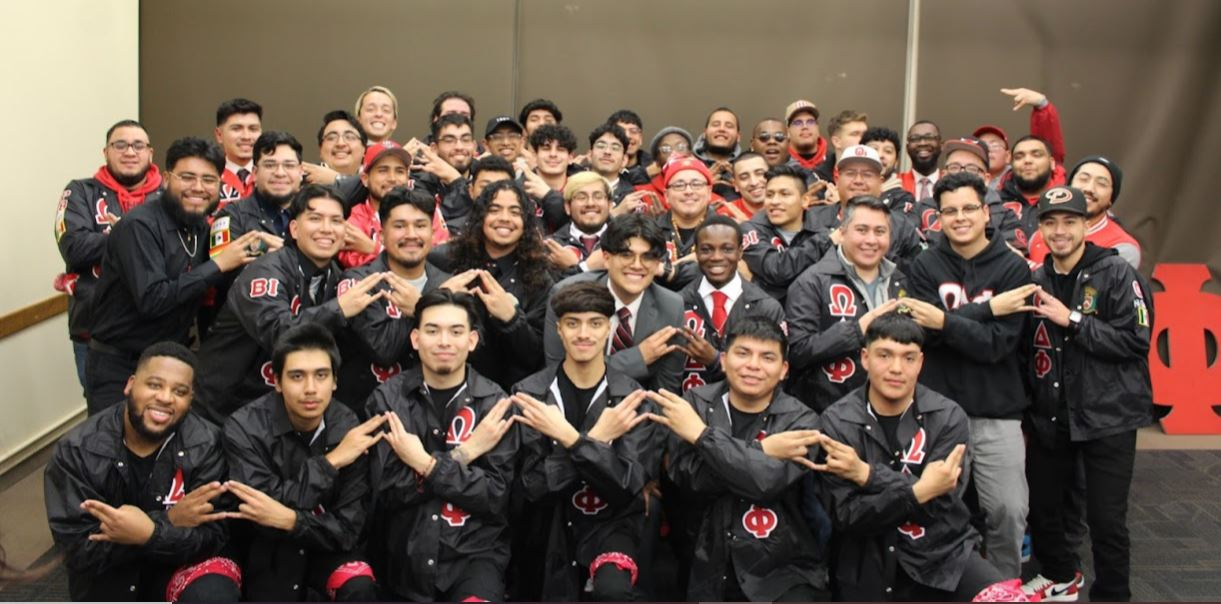
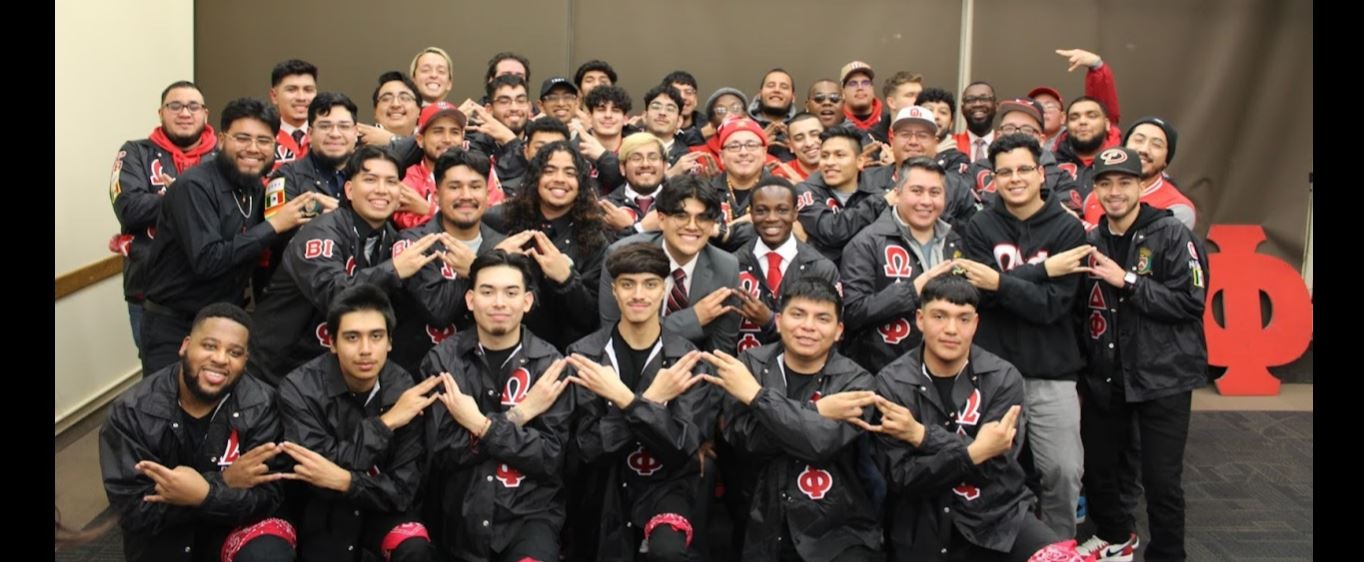
fixed swipter bug which background

diff --git a/odphi/src/app/CenterCarousel.tsx b/odphi/src/app/CenterCarousel.tsx
@@ -4,7 +4,7 @@ import Image from 'next/image';
 import { Plus_Jakarta_Sans, Manrope } from "next/font/google";
 const jakarta = Plus_Jakarta_Sans({ subsets: ["latin"] });
 const inter = Manrope({ subsets: ["latin"] });
-import "./CenterCarousel.css"
+import "./Carousel.css"
 
 export default function CenterCarousel() {
     const images = useMemo (() => [
@@ -39,3 +39,53 @@ export default function CenterCarousel() {
         </div>
     );
 }
+
+// 'use client';
+// import React from 'react';
+// import { Swiper, SwiperSlide } from 'swiper/react';
+// import 'swiper/css';
+// import 'swiper/css/navigation';
+
+// import { Autoplay, Parallax, Navigation } from 'swiper/modules';
+// import { Manrope, Plus_Jakarta_Sans } from 'next/font/google';
+// const jakarta = Plus_Jakarta_Sans({ subsets: ["latin"] });
+// const inter = Manrope({ subsets: ["latin"] });
+// import "./gallery/Gallery.css";
+
+// interface CarouselProps {
+//     slides: string[];
+// }
+
+// const Carousel: React.FC<CarouselProps> = ({ slides }) => {
+//     return (
+//         <Swiper
+//             speed={1000}
+//             autoplay={{
+//                 delay: 2500,
+//                 disableOnInteraction: false,
+//             }}
+//             loop={true}
+//             parallax={true}
+//             navigation={true}
+//             modules={[Autoplay, Parallax, Navigation]}
+//             className="swiper-container"
+//         >
+//             {slides.map((backgroundImage, index) => (
+//                 <SwiperSlide
+//                     key={index}
+//                     className="parallax-bg"
+//                     style={{ backgroundImage }}
+//                     data-swiper-parallax="-23%"
+                    
+//                 >
+//                     <img className="slide-img" src={backgroundImage} alt={`Image ${index + 1}`} />
+//                     <div className="slide-number">
+//                         {String(index + 1)} / {slides.length}
+//                     </div>
+//                 </SwiperSlide>
+//             ))}
+//         </Swiper>
+//     );
+// };
+
+// export default Carousel;

diff --git a/odphi/src/app/Carousel.tsx b/odphi/src/app/Carousel.tsx
@@ -3,6 +3,7 @@ import React from 'react';
 import { Swiper, SwiperSlide } from 'swiper/react';
 import 'swiper/css';
 import 'swiper/css/navigation';
+import './Carousel.css';
 
 import { Autoplay, Parallax, Navigation } from 'swiper/modules';
 import { Manrope, Plus_Jakarta_Sans } from 'next/font/google';
@@ -25,18 +26,18 @@ const Carousel: React.FC<CarouselProps> = ({ slides }) => {
             parallax={true}
             navigation={true}
             modules={[Autoplay, Parallax, Navigation]}
-            className="swiper-container"
+            className="carousel-container"
         >
             {slides.map((backgroundImage, index) => (
                 <SwiperSlide
                     key={index}
-                    className="parallax-bg"
+                    className="carousel-bg"
                     style={{ backgroundImage }}
                     data-swiper-parallax="-23%"
                     
                 >
-                    <img className="slide-img" src={backgroundImage} alt={`Image ${index + 1}`} />
-                    <div className="slide-number">
+                    <img className="carousel-img" src={backgroundImage} alt={`Image ${index + 1}`} />
+                    <div className="carousel-number">
                         {String(index + 1)} / {slides.length}
                     </div>
                 </SwiperSlide>

diff --git a/odphi/src/app/Carousel.css b/odphi/src/app/Carousel.css
@@ -1,7 +1,7 @@
 .swiper {
   width: 100%;
   height: 100%;
-  background: #000;
+  background: rgb(239, 238, 238);
 }
 
 .swiper-slide {
@@ -16,7 +16,7 @@
   align-items: center;
 }
 
-.parallax-bg {
+.carousel-bg {
   position: relative;
   left: 0;
   top: 0;
@@ -29,19 +29,19 @@
   align-items: center;
 }
 
-.slide-img {
+.carousel-img {
   display: block;
   margin: 0 auto;
 }
 
-.swiper-container {
+.carousel-container {
   height: 100vh;
 }
 
 .swiper-button-next,
 .swiper-button-prev {
   background: none;
-  color: red;
+  color: white;
   border: none;
   padding: 0;
   font: inherit;
@@ -92,7 +92,7 @@
   color: red;
 }
 
-.slide-number {
+.carousel-number {
   position: absolute;
   bottom: 20px;
   right: 45px;

diff --git a/odphi/src/app/gallery/Gallery.tsx b/odphi/src/app/gallery/Gallery.tsx
@@ -50,6 +50,7 @@ interface CarouselProps {
 
 const Carousel: React.FC<CarouselProps> = ({ images }) => {
     return (
+        <div className='swiperClass'>
         <Swiper
             speed={1000}
             autoplay={{
@@ -77,6 +78,7 @@ const Carousel: React.FC<CarouselProps> = ({ images }) => {
                 </SwiperSlide>
             ))}
         </Swiper>
+        </div>
     );
 };
 

diff --git a/odphi/src/app/gallery/Gallery.css b/odphi/src/app/gallery/Gallery.css
@@ -1,7 +1,11 @@
-.swiper {
+.swiperClass {
   width: 45%;
   height: 45%;
-  background-color: rgb(239, 238, 238);
+  background: rgb(239, 238, 238);
+}
+
+.swiper {
+  background: rgb(239, 238, 238);
 }
 
 .swiper-slide {
@@ -26,6 +30,7 @@
   background-position: center;
   justify-content: center;
   align-items: center;
+  margin: 0 auto;
 }
 
 .slide-img {

diff --git a/odphi/src/app/globals.css b/odphi/src/app/globals.css
@@ -279,9 +279,6 @@ main {
   max-height: 100%;
   display: block;
   margin: 0 auto;
-  /* background-repeat: no-repeat;
-  background-size: cover;
-  transition: opacity 0.5s ease-in-out; */
 }
 
 .gallery-body {
